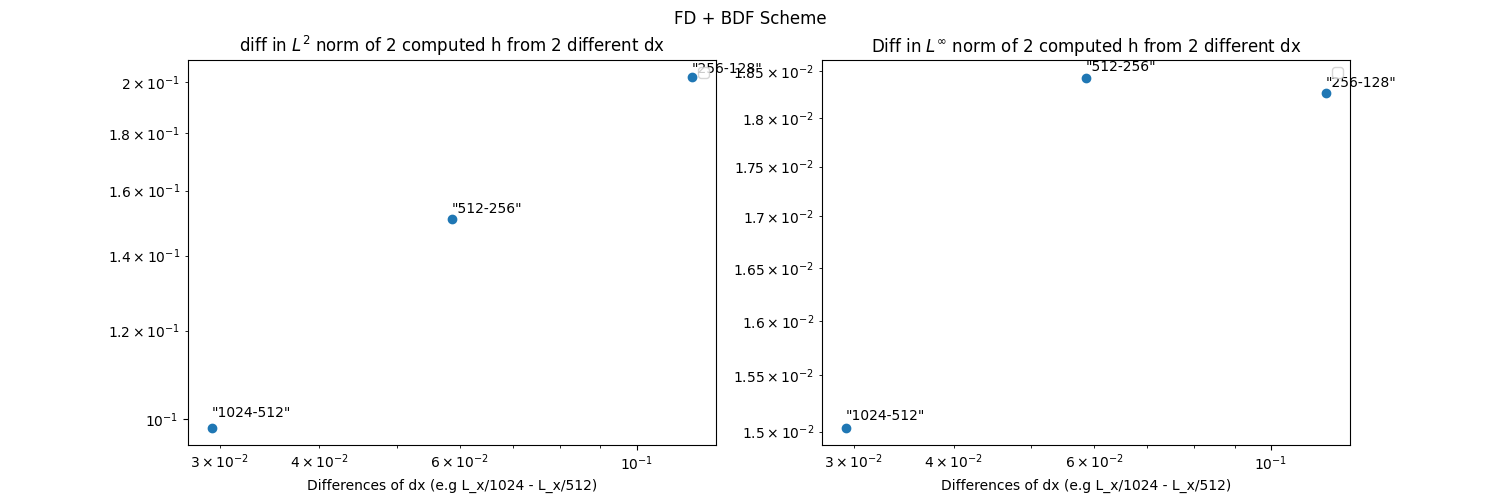
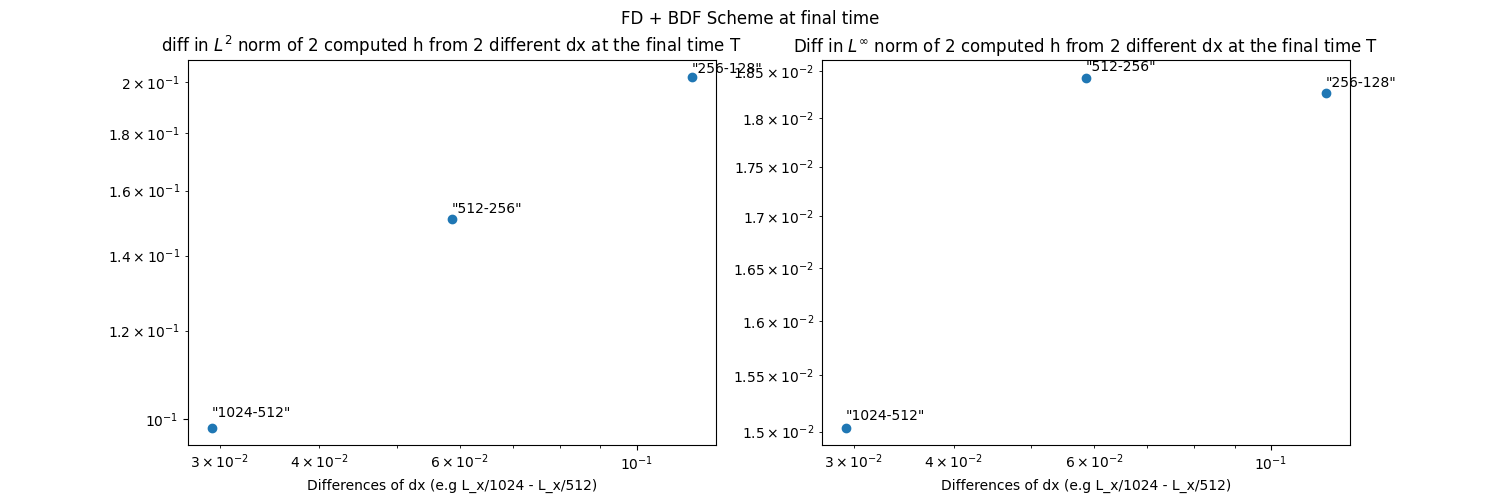
little corrections in the plots

Changed region(s): [[0.092, 0.0, 0.92, 0.12]]

diff --git a/Benney_equation_code/main_benney_eq_solver.py b/Benney_equation_code/main_benney_eq_solver.py
@@ -213,8 +213,7 @@ def plot_difference_graph(list_h_mat, general_subplot_title, save_plot = False, 
             xy=annotation['xy'],
             xytext=(annotation['xy'][0] + annotation["offset"][0], annotation['xy'][1] + annotation['offset'][1]))
     axs[0].set_xlabel("Differences of dx (e.g L_x/1024 - L_x/512)")
-    axs[0].legend()
-    axs[0].set_title(r"diff in $L^2$ norm of 2 computed h from 2 different dx")
+    axs[0].set_title(r"diff in $L^2$ norm of 2 computed h from 2 different dx at the final time T")
 
     axs[1].scatter(dx_array, arr_Linf_diff)
     # axs[1].plot(domain_t[1:], Reg_lin_coef_b_Linf*(domain_t[1:]**Reg_lin_coef_a_Linf), label="Linear Regression")
@@ -228,8 +227,7 @@ def plot_difference_graph(list_h_mat, general_subplot_title, save_plot = False, 
             xytext=(annotation['xy'][0] + annotation["offset"][0], annotation['xy'][1] + annotation['offset'][1]))
     # axs[1].set_xticks(space_steps_list)
     axs[1].set_xlabel("Differences of dx (e.g L_x/1024 - L_x/512)")
-    axs[1].legend()
-    axs[1].set_title(r"Diff in $L^{\infty}$ norm of 2 computed h from 2 different dx")
+    axs[1].set_title(r"Diff in $L^{\infty}$ norm of 2 computed h from 2 different dx at the final time T")
 
     fig.suptitle(general_subplot_title)
 
@@ -238,7 +236,7 @@ def plot_difference_graph(list_h_mat, general_subplot_title, save_plot = False, 
         plt.savefig(file_name)
     plt.show()
 
-# plot_difference_graph(list_h_mat_FD, "FD + BDF Scheme at final time", save_plot=True, file_name="Benney_equation_code\\BDF_order_1_FD_difference_graph")
+plot_difference_graph(list_h_mat_FD, "FD + BDF Scheme at final time", save_plot=True, file_name="Benney_equation_code\\BDF_order_1_FD_difference_graph")
 
 
 ###### SPECTRAL METHOD #########
@@ -341,7 +339,7 @@ for space_step in space_steps_list:
     print(space_step)
     list_h_mat_spectral.append(np.loadtxt('Benney_equation_code\\Spectral_method_BDF_order{BDF_order}_Nx_{N_x}.txt'.format(BDF_order=order_BDF_scheme, N_x=space_step)))
 
-# plot_difference_graph(list_h_mat_spectral, "Spectral + BDF scheme at final time", save_plot=True, file_name="Benney_equation_code\\BDF_order_1_Spectral_difference_graph")
+plot_difference_graph(list_h_mat_spectral, "Spectral + BDF scheme at final time", save_plot=True, file_name="Benney_equation_code\\BDF_order_1_Spectral_difference_graph")
 
 
 
@@ -388,7 +386,7 @@ for annotation in annotations:
         xy=annotation['xy'],
         xytext=(annotation['xy'][0] + annotation["offset"][0], annotation['xy'][1] + annotation['offset'][1]))
 axs[0].set_xlabel("dx")
-axs[0].set_title(r"diff in $L^2$ norm ")
+axs[0].set_title(r"diff in $L^2$ norm at the final time T")
 
 axs[1].scatter(dx_array, arr_Linf_diff)
 # axs[0].plot(domain_t[1:], np.exp(Reg_lin_coef_b_L2)*(domain_t[1:]**Reg_lin_coef_a_L2), label="Linear Regression")
@@ -401,7 +399,7 @@ for annotation in annotations:
         xy=annotation['xy'],
         xytext=(annotation['xy'][0] + annotation["offset"][0], annotation['xy'][1] + annotation['offset'][1]))
 axs[1].set_xlabel("dx")
-axs[1].set_title(r"diff in $L^{\infty}$ norm ")
+axs[1].set_title(r"diff in $L^{\infty}$ norm at the final time T")
 
 fig.suptitle("Comparison between the Spectral and FD methods with BDF of order 1")
 plt.savefig("Benney_equation_code\\Plot_Comparison_Spectral_FD_BDF_order_1")
